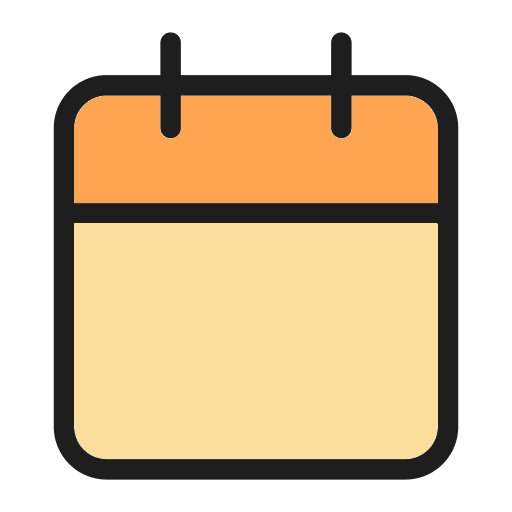
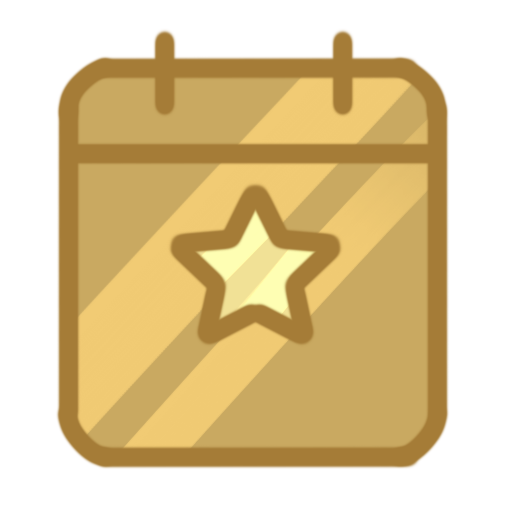
Updated Badges assets

diff --git a/src/components/Pets.jsx b/src/components/Pets.jsx
@@ -44,59 +44,57 @@ const DEFAULT_HAT_VARIANTS = {
 const HAT_POSITION_PRESETS = {
   hat_party: {
     base: { ...DEFAULT_HAT_BASE, height: "22vh" },
-    cat: { ...DEFAULT_HAT_VARIANTS.cat, yVh: 19, xVh: -13 },
+    ...DEFAULT_HAT_VARIANTS,
     dog: { ...DEFAULT_HAT_VARIANTS.dog, yVh: 17},
   },
   crown: {
     base: { ...DEFAULT_HAT_BASE, height: "14vh" },
     ...DEFAULT_HAT_VARIANTS,
-    cat: { ...DEFAULT_HAT_VARIANTS.cat, yVh: 19},
   },
   crown_purple: {
     base: { ...DEFAULT_HAT_BASE, height: "14vh" },
     ...DEFAULT_HAT_VARIANTS,
-    cat: { ...DEFAULT_HAT_VARIANTS.cat, yVh: 19},
   },
   cap_blue: {
     base: { ...DEFAULT_HAT_BASE, height: "20vh" },
-    cat: { ...DEFAULT_HAT_VARIANTS.cat, yVh: 19, xVh: -13 },
+    cat: { ...DEFAULT_HAT_VARIANTS.cat, yVh: 22},
     dog: { ...DEFAULT_HAT_VARIANTS.dog, yVh: 22},
   },
   hat_top: {
     base: { ...DEFAULT_HAT_BASE, height: "24vh" },
-    cat: { ...DEFAULT_HAT_VARIANTS.cat, yVh: 19, xVh: -13 },
+    cat: { ...DEFAULT_HAT_VARIANTS.cat, yVh: 21, xVh: -12.5 },
     dog: { ...DEFAULT_HAT_VARIANTS.dog, yVh: 21},
   },
   hat_conductor: {
     base: DEFAULT_HAT_BASE,
-    cat: { ...DEFAULT_HAT_VARIANTS.cat, yVh: 19, xVh: -13 },
+    cat: { ...DEFAULT_HAT_VARIANTS.cat, yVh: 22},
     dog: { ...DEFAULT_HAT_VARIANTS.dog, yVh: 22},
   },
   hat_tennis: {
     base: { ...DEFAULT_HAT_BASE, height: "20vh" },
-    cat: { ...DEFAULT_HAT_VARIANTS.cat, yVh: 19, xVh: -13 },
+    cat: { ...DEFAULT_HAT_VARIANTS.cat, yVh: 23},
     dog: { ...DEFAULT_HAT_VARIANTS.dog, yVh: 23},
   },
   beanie_red: {
     base: { ...DEFAULT_HAT_BASE, height: "20vh" },
-    cat: { ...DEFAULT_HAT_VARIANTS.cat, yVh: 19, xVh: -13 },
+    cat: { ...DEFAULT_HAT_VARIANTS.cat, yVh: 19},
     dog: { ...DEFAULT_HAT_VARIANTS.dog, yVh: 19},
   },
   hat_cowboy: {
     base: { ...DEFAULT_HAT_BASE, height: "22vh" },
-    cat: { ...DEFAULT_HAT_VARIANTS.cat, yVh: 19, xVh: -13 },
+    cat: { ...DEFAULT_HAT_VARIANTS.cat, yVh: 20},
     dog: { ...DEFAULT_HAT_VARIANTS.dog, yVh: 20},
   },
   hat_bucket: {
     base: { ...DEFAULT_HAT_BASE, height: "22vh" },
-    cat: { ...DEFAULT_HAT_VARIANTS.cat, yVh: 19, xVh: -13 },
-    dog: { ...DEFAULT_HAT_VARIANTS.dog, yVh: 21, xVh: 6.5},
+    cat: { ...DEFAULT_HAT_VARIANTS.cat, yVh: 20},
+    dog: { ...DEFAULT_HAT_VARIANTS.dog, yVh: 21},
   },
 };
 
 const DEFAULT_COLLAR_BASE = { height: "8vh", xRem: -4.45 };
 const DEFAULT_COLLAR_VARIANTS = {
-  cat: { yVh: -17, xVh: -10.5 },
+  cat: { yVh: -14.5, xVh: -11 },
   dog: { yVh: -14, xVh: 7 },
 };
 
@@ -104,26 +102,23 @@ const COLLAR_POSITION_PRESETS = {
   collar_red: {
     base: DEFAULT_COLLAR_BASE,
     ...DEFAULT_COLLAR_VARIANTS,
-    cat: { ...DEFAULT_COLLAR_VARIANTS.cat, yVh: -14, xVh: 7},
   },
   collar_blue: {
     base: DEFAULT_COLLAR_BASE,
     ... DEFAULT_COLLAR_VARIANTS,
-    cat: { ...DEFAULT_COLLAR_VARIANTS.cat, yVh: -14, xVh: 7},
   },
   bowtie: {
     base: DEFAULT_COLLAR_BASE,
     ... DEFAULT_COLLAR_VARIANTS,
-    cat: { ...DEFAULT_COLLAR_VARIANTS.cat, yVh: -14, xVh: 7},
   },
   collar_leather: {
     base: {DEFAULT_COLLAR_BASE, height: "10vh"},
-    cat: { ...DEFAULT_COLLAR_VARIANTS.cat, yVh: -14, xVh: 7},
+    cat: { ...DEFAULT_COLLAR_VARIANTS.cat, yVh: -17, xVh: -11},
     dog: { ...DEFAULT_COLLAR_VARIANTS.dog, yVh: -16, xVh: 7},
   },
   collar_spiky: {
     base: {DEFAULT_COLLAR_BASE, height: "11vh"},
-    cat: { ...DEFAULT_COLLAR_VARIANTS.cat, yVh: -14, xVh: 7},
+    cat: { ...DEFAULT_COLLAR_VARIANTS.cat, yVh: -14.5, xVh: -11},
     dog: { ...DEFAULT_COLLAR_VARIANTS.dog, yVh: -14, xVh: 7},
   },
 };

diff --git a/src/components/BadgePage.jsx b/src/components/BadgePage.jsx
@@ -1,28 +1,28 @@
 import React, { useState, useEffect } from "react";
 
-import Award1 from "../assets/badges/Award1.png";
-import Award2 from "../assets/badges/Award2.png";
-import Award3 from "../assets/badges/Award3.png";
+import Pets1 from "../assets/badges/Pets1.png";
+import Pets2 from "../assets/badges/Pets2.png";
+import Pets3 from "../assets/badges/Pets3.png";
+import Exp1 from "../assets/badges/Exp1.png";
+import Exp2 from "../assets/badges/Exp2.png";
+import Exp3 from "../assets/badges/Exp3.png";
 import Calendar1 from "../assets/badges/Calendar1.png";
 import Calendar2 from "../assets/badges/Calendar2.png";
 import Calendar3 from "../assets/badges/Calendar3.png";
-import Compass1 from "../assets/badges/Compass1.png";
-import Compass2 from "../assets/badges/Compass2.png";
-import Compass3 from "../assets/badges/Compass3.png";
 import Pen1 from "../assets/badges/Pen1.png";
 import Pen2 from "../assets/badges/Pen2.png";
 import Pen3 from "../assets/badges/Pen3.png";
 
 const badgeImageMap = {
-  "Award1.png": Award1,
-  "Award2.png": Award2,
-  "Award3.png": Award3,
+  "Pets1.png": Pets1,
+  "Pets2.png": Pets2,
+  "Pets3.png": Pets3,
+  "Exp1.png": Exp1,
+  "Exp2.png": Exp2,
+  "Exp3.png": Exp3,
   "Calendar1.png": Calendar1,
   "Calendar2.png": Calendar2,
   "Calendar3.png": Calendar3,
-  "Compass1.png": Compass1,
-  "Compass2.png": Compass2,
-  "Compass3.png": Compass3,
   "Pen1.png": Pen1,
   "Pen2.png": Pen2,
   "Pen3.png": Pen3,

diff --git a/src/components/MainPage.jsx b/src/components/MainPage.jsx
@@ -1,5 +1,5 @@
 // MainPage.jsx
-import React, { useEffect, useState, useCallback } from "react";
+import React, { useEffect, useState, useCallback, useRef } from "react";
 import { useLocation } from "react-router-dom";
 
 import { useNavigate } from "react-router-dom";
